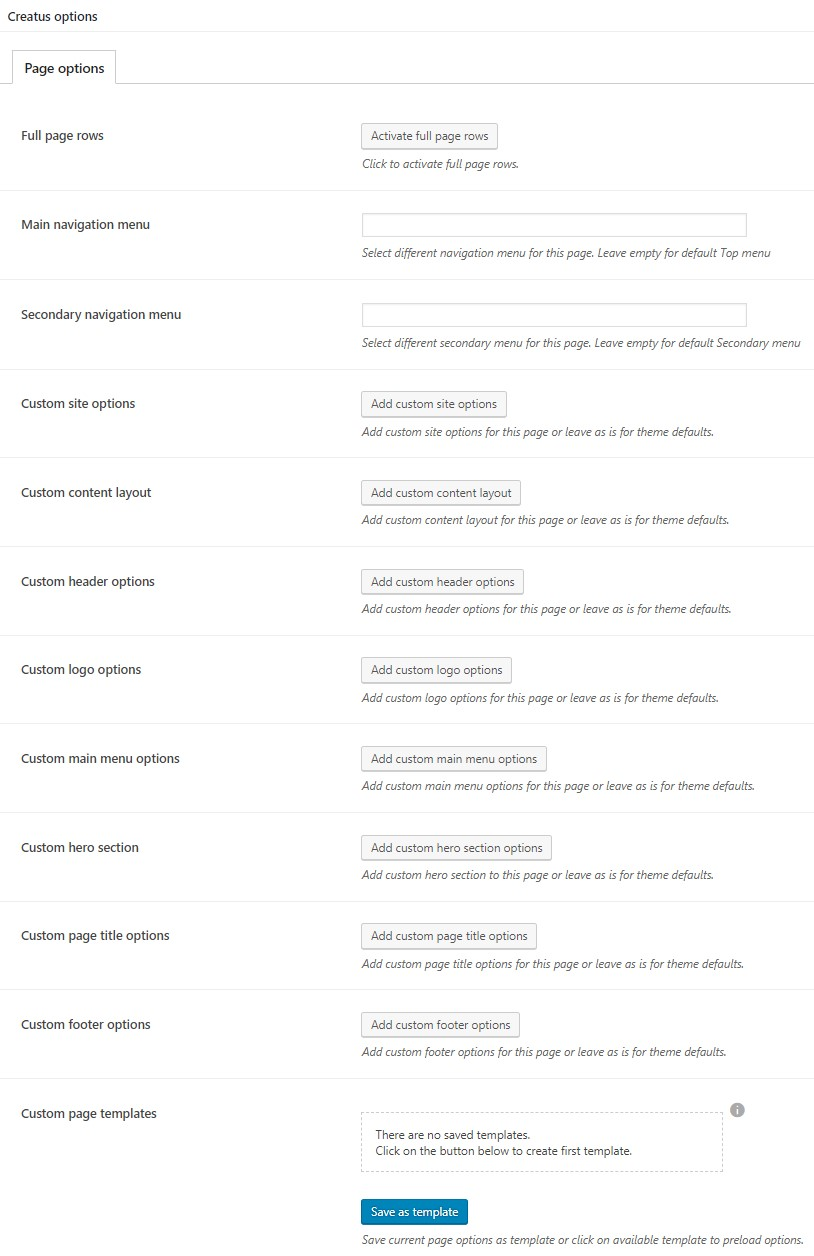
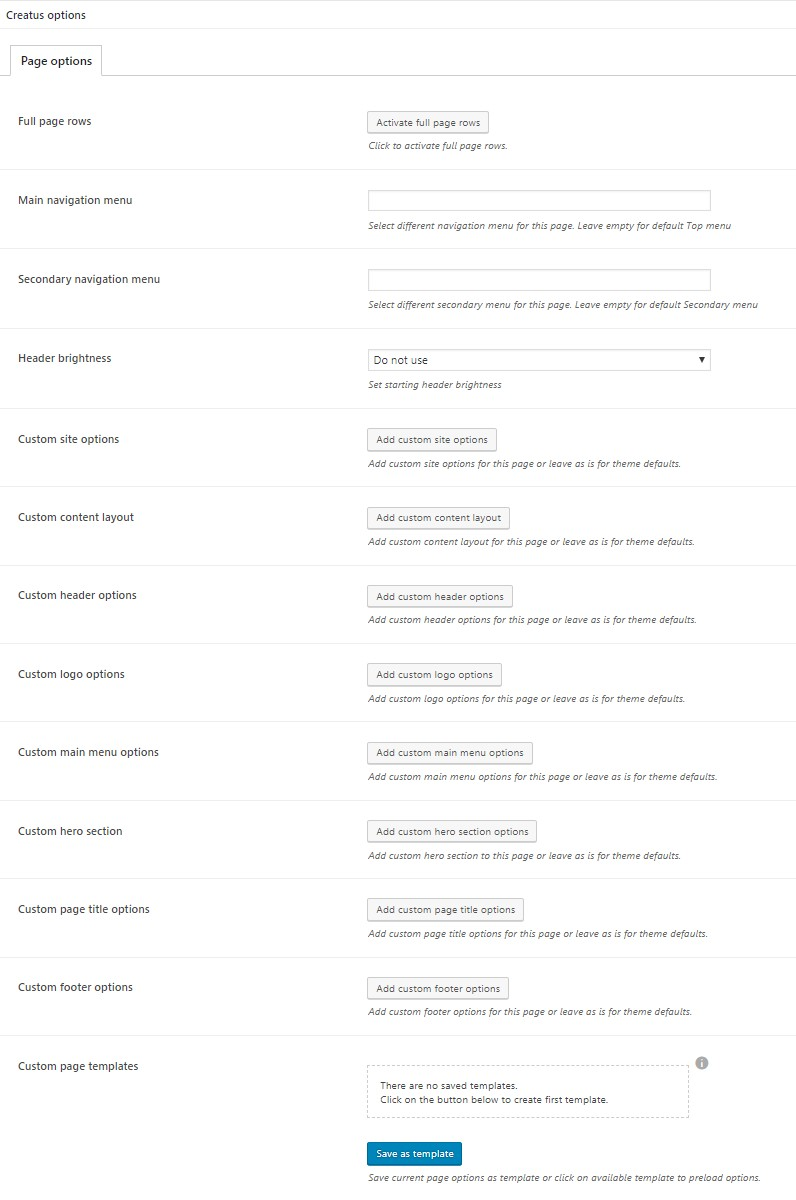
Options update

diff --git a/pages/framework/elements/section.md b/pages/framework/elements/section.md
@@ -27,6 +27,8 @@ Section element is main layout building block used to separate columns in to row
 1. __ Scroll fade __ &nbsp;-&nbsp; Add scroll fade effect. This option adds fade effect on scroll to the HTML container or the container content.
 1. __ Full height __ &nbsp;-&nbsp; Add full height effect. This option adds full height ( viewport height ) to the HTML container.
 1. __ Separator __ &nbsp;-&nbsp; Add separator. This option adds separator layer to the HTML container.
+1. __ Container parallax __ &nbsp;-&nbsp; Add container parallax effect. This option adds a parallax effect to the HTML container.
+1. __ Open in lightbox __ &nbsp;-&nbsp; This option hides the section from a page and adds it to a lightbox. If you wish to open this section in a lightbox it will be hidden on the page but you can use any link option that has a Magnific popup link type to open it. For example Image element, Click action -> Open link -> Add custom link -> Link type. Remeber to use the # sign infront of the magnific popup id like this; #this_section_id and make sure you have a custom ID for this section.
 
 #### Responsive tab{.options-tab}
 1. __Section breakpoints__ &nbsp;-&nbsp; Add custom section settings on specific breakpoints.

diff --git a/pages/framework/elements/media-gallery.md b/pages/framework/elements/media-gallery.md
@@ -55,3 +55,8 @@ Media Gallery element displays Images, Vimeo video, Youtube video, Self hosted v
 1. __ Filter link metrics __ &nbsp;-&nbsp; Adjust filter link metrics.
 1. __ Filter link style __ &nbsp;-&nbsp; Adjust filter links style. Hovered link takes properties from active link.
 1. __ Filter font __ &nbsp;-&nbsp; Filter links font metrics.
+
+#### Effects tab{.options-tab}
+1. __ Animate container __ &nbsp;-&nbsp; Add animation to the layers HTML container.
+1. __ Container parallax __ &nbsp;-&nbsp; Activate/deactivate container parallax.
+1. __ Media parallax __ &nbsp;-&nbsp; Activate/deactivate media parallax. This effect works for images only and it does NOT work if media height is auto! To parallax media for specific items only, add specific items in the order that you see them separated by comma like; 1,5,7. This would parallax media for 1st 5th and 7th item.

diff --git a/pages/posts-taxonomies/page-options.md b/pages/posts-taxonomies/page-options.md
@@ -16,6 +16,7 @@ This section contains custom options that will help you adjust following setting
 To add scroll menu, go to Content Elements tab in page builder and add Sections menu element.
 1. __Main navigation menu__ &nbsp;-&nbsp; Select different navigation menu for this page. Leave empty for default Top menu.
 1. __Secondary navigation menu__ &nbsp;-&nbsp; Select different secondary menu for this page. Leave empty for default Secondary menu.
+1. __Header brightness__ &nbsp;-&nbsp; Set starting header brightness.
 1. __Custom site options__ &nbsp;-&nbsp; Add custom site options for this page or leave as is for theme defaults.
 1. __Custom content layout__ &nbsp;-&nbsp; Add custom content layout for this page or leave as is for theme defaults.
 1. __Custom header options__ &nbsp;-&nbsp; Add custom header options for this page or leave as is for theme defaults.

diff --git a/pages/framework/elements/image-layers.md b/pages/framework/elements/image-layers.md
@@ -42,6 +42,7 @@ Image Layers element can stack multiple image layers on top of each other inside
 #### Effects tab{.options-tab}
 1. __ Animate container __ &nbsp;-&nbsp; Add animation to the layers HTML container.
 1. __ Container parallax __ &nbsp;-&nbsp; Activate/deactivate container parallax.
+1. __ Media parallax __ &nbsp;-&nbsp; Activate/deactivate media parallax. This effect works for images only and it does NOT work if media height is auto! To parallax media for specific items only, add specific items in the order that you see them separated by comma like; 1,5,7. This would parallax media for 1st 5th and 7th item.
 
 
 #### Layer Defaults tab{.options-tab}

diff --git a/pages/theme-settings/header-options.md b/pages/theme-settings/header-options.md
@@ -37,9 +37,9 @@ Sticky tab contains options that will help you control __sticky header type__, _
 </a>
 </div>
 
-### Sections header tab
+### Header brightness tab
  
-Sections header tab contains options that will help you control __dark sections header style__ and __light sections header style__.
+Sections header brightness tab contains options that will help you control __dark sections header style__ and __light sections header style__.
 
 <div class="thz-doc-image max">
 <a class="thz-lightbox mfp-image" href="../../docs-media/header-options-4.jpg?" data-mfp-title="Creatus WordPress Theme Admin Header Sticky Tab" data-modal-size="large">

diff --git a/pages/framework/elements/image.md b/pages/framework/elements/image.md
@@ -41,3 +41,9 @@ Image element displays an image within customizable container. Element popup con
 1. __ Overlay icon __ &nbsp;-&nbsp; Set overlay icon. Shown only if icon selected.
 1. __ Icon metrics __ &nbsp;-&nbsp; Adjust icon metrics.
 1. __ Shape metrics __ &nbsp;-&nbsp; Adjust icon background shape metrics.
+
+
+#### Effects tab{.options-tab}
+1. __ Animate container __ &nbsp;-&nbsp; Add animation to the image HTML container.
+1. __ Container parallax __ &nbsp;-&nbsp; Activate/deactivate container parallax.
+1. __ Media parallax __ &nbsp;-&nbsp; Activate/deactivate media parallax. This effect does NOT work if media height is auto.

diff --git a/pages/framework/elements/team-members.md b/pages/framework/elements/team-members.md
@@ -57,3 +57,4 @@ Team Members element displays team members with their image, description and soc
 #### Effects tab{.options-tab}
 1. __ Animate members __ &nbsp;-&nbsp; Add animation to the member HTML container.
 1. __ Container parallax __ &nbsp;-&nbsp; Activate/deactivate container parallax.
+1. __ Media parallax __ &nbsp;-&nbsp; Activate/deactivate media parallax. This effect works for images only and it does NOT work if media height is auto! To parallax media for specific items only, add specific items in the order that you see them separated by comma like; 1,5,7. This would parallax media for 1st 5th and 7th item.

diff --git a/pages/framework/elements/before-after.md b/pages/framework/elements/before-after.md
@@ -18,3 +18,4 @@ Before After element highlights differences between two images. Element popup co
 
 #### Effects tab{.options-tab}
 1. __ Animate container __ &nbsp;-&nbsp; Add animation to the HTML container.
+1. __ Container parallax __ &nbsp;-&nbsp; Activate/deactivate container parallax.

diff --git a/pages/framework/elements/counter.md b/pages/framework/elements/counter.md
@@ -17,3 +17,4 @@ Counter element will display a animated numbers counter. Element popup contains 
 
 #### Effects tab{.options-tab}
 1. __ Animate __ &nbsp;-&nbsp; Add animation to the HTML container.
+1. __ Container parallax __ &nbsp;-&nbsp; Activate/deactivate container parallax.
